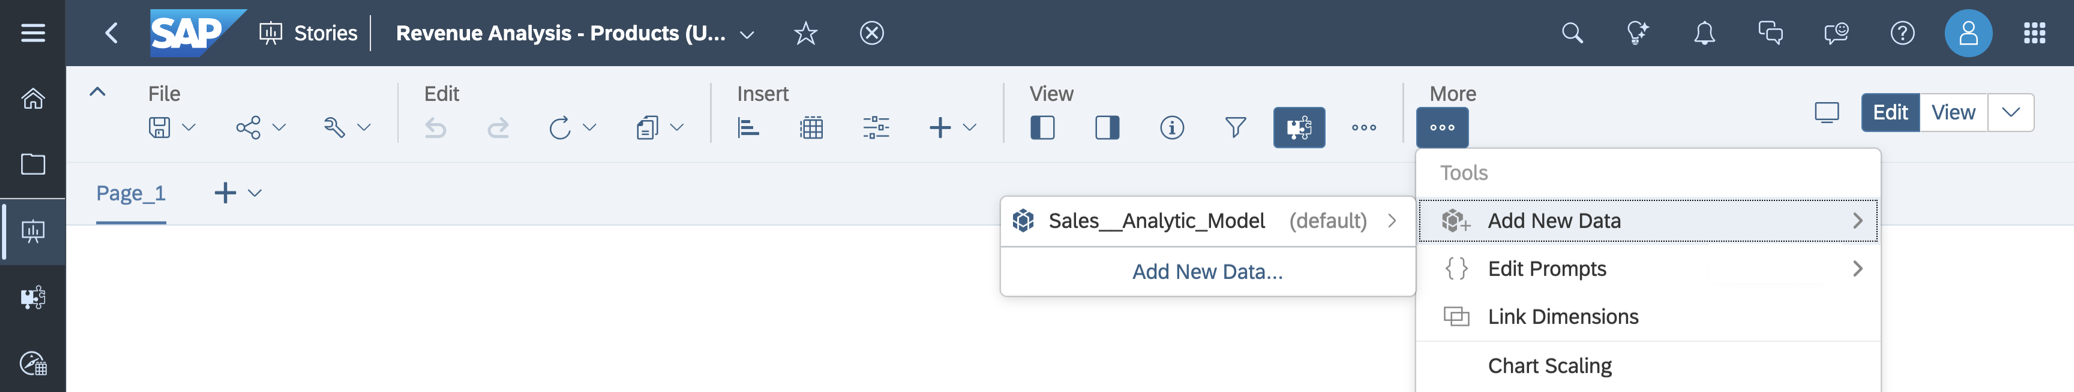
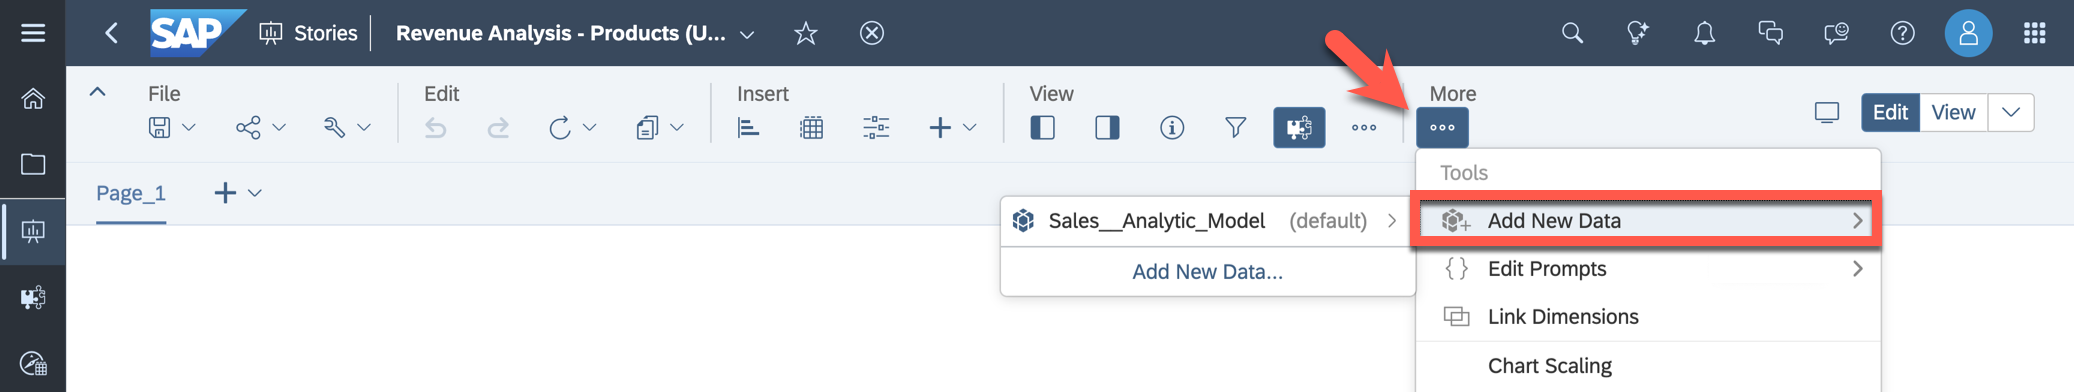
update

Changed region(s): [[0.6789, 0.4592, 0.9257, 0.6735], [0.6172, 0.0612, 0.6789, 0.3061]]

diff --git a/exercises/ex23/README.md b/exercises/ex23/README.md
@@ -53,7 +53,7 @@ This functionality is beneficial for development activities when you need to tra
 12. Deselect the target table by clicking somewhere else in the editor field. The properties for the Transformation Flow will appear on the right-hand side. Set the business name to ***TF_SalesTransactions*** and the Load Type to ***Initial and Delta***.
 <br>![](images/00_00_0010.png)  
 
-13. Save and deploy the Transformation Flow in the folder TECHED2024-DA180, afterwards click on ***Run***.
+13. Save and deploy the Transformation Flow in the folder TECHED2024-DA180, afterward click on ***Run***.
 <br>![](images/00_00_0011.png)  
 
 14. Open the Data Integration Monitor to have a look at the Transformation Flow run.
@@ -65,7 +65,7 @@ This functionality is beneficial for development activities when you need to tra
 16. The Transformation Flow run should run scheduled. User consent is required to run scheduled tasks or task chains. Authorize SAP Datasphere to run these tasks.
 <br>![](images/00_00_0020.png)  
 
-17. Schedule the Transformation Flow to run once a day. It will retrieve the latest and changed records and add them to the local table. Click ***Create Schedule***.
+17. Schedule the Transformation Flow to run once a day. It will retrieve the newest and changed records and add them to the local table. Click ***Create Schedule***.
 <br>![](images/00_00_0014.png)  
 
 18. Define the scheduling as ***Simple Schedule*** which is repeated every 10 minutes. Choose a time and select ***Create***.
@@ -112,8 +112,11 @@ We will reuse the previously created SAC Story and map it to the new updated Ana
 
 31. Open the story  ***Revenue Analysis - Products (Updated)*** and switch to the ***Edit*** mode.
 
-32. To replace the model, access ***...*** -> ***Sales__Analytic_Model*** -> ***Replace***.
+32. To replace the model, access ***...*** -> ***Add New Data*** -> ***Sales__Analytic_Model*** 
 <br>![](images/00_00_0030.png)  
+
+33. Select ***Replace***.
+<br>![](images/00_00_0030.5.png)  
 
 33. Read the warning displayed and click ***Continue***.
 <br>![](images/00_00_0031.png)  
